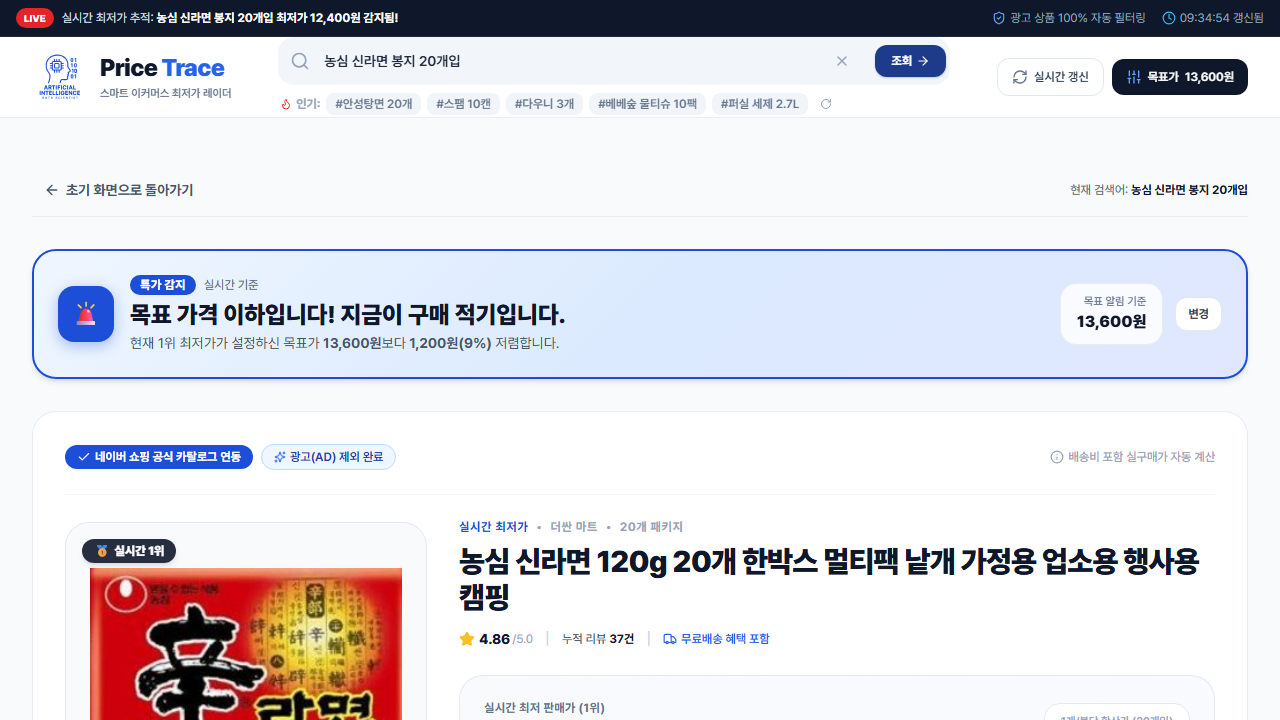
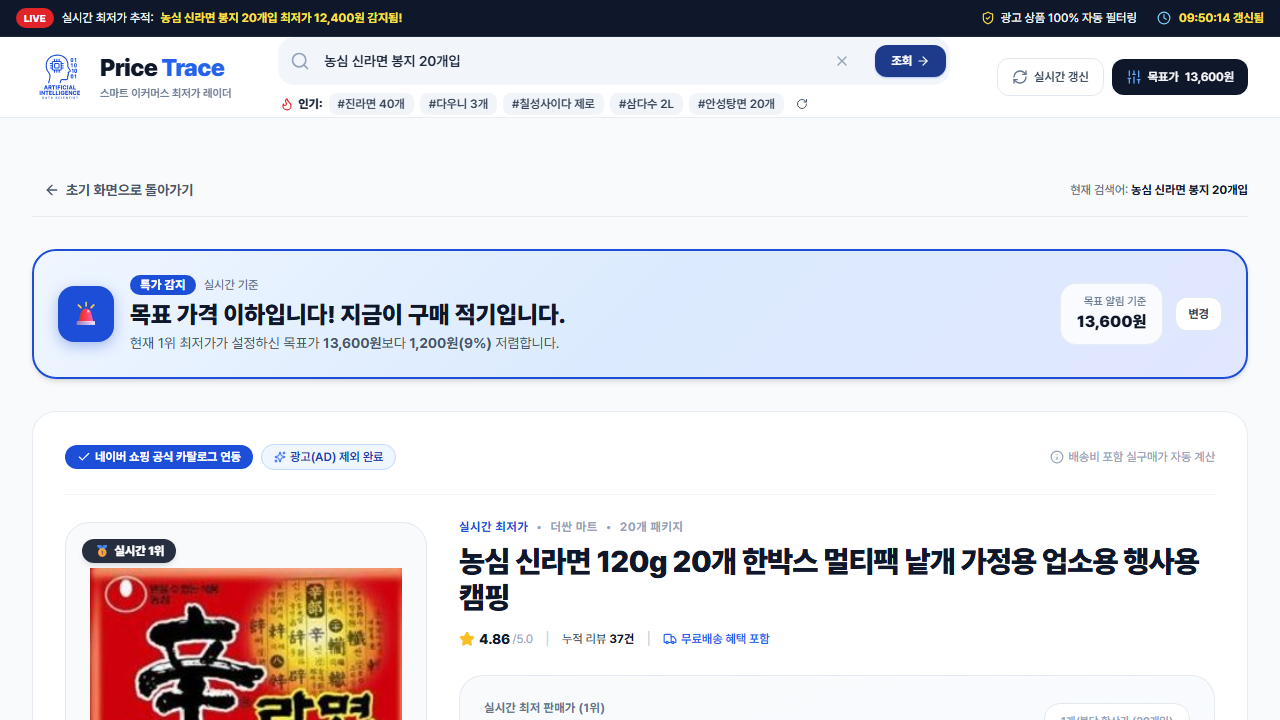
style: 배경색 대비 텍스트 가독성 최적화(어두운 배경 화이트·옐로우 / 푸터 블랙 폰트 적용)

Changed region(s): [[0.2188, 0.1222, 0.625, 0.1528], [0.0312, 0.0, 0.3125, 0.0306], [0.75, 0.0, 1.0, 0.0306]]

diff --git a/public/index.html b/public/index.html
@@ -60,20 +60,20 @@
 </head>
 <body class="bg-surface-50 text-slate-800 font-sans antialiased selection:bg-lapis selection:text-white min-h-screen flex flex-col">
 
-  <!-- 1. 최상단 실시간 특가 알림 바 (모바일 가독성 최적화) -->
+  <!-- 1. 최상단 실시간 특가 알림 바 (어두운 배경 대비 가독성 최적화: 환한 흰색 & 노랑) -->
   <div class="bg-slate-900 text-white text-[11px] sm:text-xs py-1.5 sm:py-2 px-3 sm:px-4 shadow-sm border-b border-slate-800">
     <div class="max-w-7xl mx-auto flex items-center justify-between">
       <div class="flex items-center space-x-2 truncate">
         <span class="inline-flex items-center justify-center px-2 py-0.5 rounded-full text-[10px] font-extrabold bg-coupang text-white animate-pulse shrink-0">
           LIVE
         </span>
-        <span class="font-medium text-slate-300 truncate">
-          실시간 최저가 추적: <strong class="text-white font-bold" id="topBannerText">농심 신라면 20개입 최저가 감지됨!</strong>
+        <span class="font-medium text-slate-100 truncate">
+          실시간 최저가 추적: <strong class="text-yellow-300 font-bold ml-1" id="topBannerText">농심 신라면 20개입 최저가 감지됨!</strong>
         </span>
       </div>
-      <div class="hidden md:flex items-center space-x-4 text-xs text-slate-400 shrink-0">
-        <span class="flex items-center"><i data-lucide="shield-check" class="w-3.5 h-3.5 mr-1 text-blue-400"></i> 광고 상품 100% 자동 필터링</span>
-        <span class="flex items-center"><i data-lucide="clock" class="w-3.5 h-3.5 mr-1 text-sky-400"></i> <span id="lastUpdatedTime">방금 갱신됨</span></span>
+      <div class="hidden md:flex items-center space-x-5 text-xs text-white shrink-0 font-medium">
+        <span class="flex items-center text-slate-100"><i data-lucide="shield-check" class="w-3.5 h-3.5 mr-1.5 text-yellow-300"></i> 광고 상품 100% 자동 필터링</span>
+        <span class="flex items-center text-slate-100"><i data-lucide="clock" class="w-3.5 h-3.5 mr-1.5 text-sky-300"></i> <span id="lastUpdatedTime" class="text-yellow-300 font-bold ml-0.5">방금 갱신됨</span></span>
       </div>
     </div>
   </div>
@@ -151,9 +151,9 @@
         </form>
 
         <!-- 인기 검색어 / 빠른 태그 칩 (모바일 가로 스크롤 & 데스크톱 랩) -->
-        <div class="flex items-center gap-1.5 mt-1 sm:mt-1.5 text-xs text-slate-500 overflow-x-auto no-scrollbar py-0.5 px-0.5">
-          <span class="font-bold text-slate-400 flex items-center gap-1 shrink-0 text-[11px] sm:text-xs">
-            <i data-lucide="flame" class="w-3 h-3 text-coupang"></i> 인기:
+        <div class="flex items-center gap-1.5 mt-1 sm:mt-1.5 text-xs text-slate-700 overflow-x-auto no-scrollbar py-0.5 px-0.5">
+          <span class="font-black text-slate-800 flex items-center gap-1 shrink-0 text-[11px] sm:text-xs">
+            <i data-lucide="flame" class="w-3.5 h-3.5 text-coupang"></i> 인기:
           </span>
           <div id="quickChipsContainer" class="flex items-center gap-1.5 shrink-0">
             <!-- JS 동적 렌더링 -->
@@ -161,7 +161,7 @@
           <button 
             type="button" 
             id="shuffleChipsBtn" 
-            class="px-1.5 py-0.5 rounded text-slate-400 hover:text-blue-600 hover:bg-blue-50 transition-colors flex items-center gap-0.5 text-[11px] shrink-0 cursor-pointer" 
+            class="px-1.5 py-0.5 rounded text-slate-600 hover:text-blue-600 hover:bg-blue-50 transition-colors flex items-center gap-0.5 text-[11px] shrink-0 cursor-pointer font-bold" 
             title="다른 추천 키워드 보기"
           >
             <i data-lucide="rotate-cw" class="w-3 h-3"></i>
@@ -217,22 +217,22 @@
             <span class="text-transparent bg-clip-text bg-gradient-to-r from-sky-300 via-blue-400 to-indigo-300">1개당 진짜 최저가</span>를 찾아드립니다
           </h1>
 
-          <p class="text-slate-300 text-xs sm:text-sm font-normal leading-relaxed pt-1">
+          <p class="text-slate-100 text-xs sm:text-sm font-normal leading-relaxed pt-1">
             수많은 미끼 상품과 스폰서 광고 속에서, 네이버 쇼핑 공식 카탈로그와 스마트스토어의 
-            <strong>배송비 포함 실구매가</strong> 및 <strong>묶음당 개당 환산단가</strong>를 실시간으로 비교 분석합니다.
+            <strong class="text-yellow-300 font-extrabold">배송비 포함 실구매가</strong> 및 <strong class="text-yellow-300 font-extrabold">묶음당 개당 환산단가</strong>를 실시간으로 비교 분석합니다.
           </p>
 
-          <div class="pt-2 flex flex-wrap items-center gap-3 text-xs text-slate-300">
-            <span class="flex items-center gap-1 text-sky-400 font-semibold">
-              <i data-lucide="check-circle-2" class="w-4 h-4"></i> 광고(AD) 자동 필터링
+          <div class="pt-2 flex flex-wrap items-center gap-3 text-xs text-slate-200 font-medium">
+            <span class="flex items-center gap-1.5 text-yellow-300 font-bold">
+              <i data-lucide="check-circle-2" class="w-4 h-4 text-yellow-300"></i> 광고(AD) 자동 필터링
             </span>
-            <span class="text-slate-600">•</span>
-            <span class="flex items-center gap-1 text-sky-400 font-semibold">
-              <i data-lucide="check-circle-2" class="w-4 h-4"></i> 1개당 단가 자동 환산
+            <span class="text-slate-400">•</span>
+            <span class="flex items-center gap-1.5 text-yellow-300 font-bold">
+              <i data-lucide="check-circle-2" class="w-4 h-4 text-yellow-300"></i> 1개당 단가 자동 환산
             </span>
-            <span class="text-slate-600">•</span>
-            <span class="flex items-center gap-1 text-sky-400 font-semibold">
-              <i data-lucide="check-circle-2" class="w-4 h-4"></i> 30일 시세 변동 추이
+            <span class="text-slate-400">•</span>
+            <span class="flex items-center gap-1.5 text-yellow-300 font-bold">
+              <i data-lucide="check-circle-2" class="w-4 h-4 text-yellow-300"></i> 30일 시세 변동 추이
             </span>
           </div>
         </div>
@@ -278,7 +278,7 @@
               <i data-lucide="filter" class="w-5 h-5"></i>
             </div>
             <h4 class="font-bold text-sm text-slate-900">클린 필터링 (광고 제외)</h4>
-            <p class="text-xs text-slate-500 leading-relaxed">
+            <p class="text-xs text-slate-700 font-medium leading-relaxed">
               돈 내고 올리는 스폰서 광고 상품과 엉뚱한 낱개 미끼 상품을 시스템이 자동으로 배제하여 순수 실시간 최저가만 수집합니다.
             </p>
           </div>
@@ -288,7 +288,7 @@
               <i data-lucide="calculator" class="w-5 h-5"></i>
             </div>
             <h4 class="font-bold text-sm text-slate-900">개당 환산 단가 계산</h4>
-            <p class="text-xs text-slate-500 leading-relaxed">
+            <p class="text-xs text-slate-700 font-medium leading-relaxed">
               상품명 속 수량(20개, 24캔 등)을 자동 인식하여 1개당 실제 얼마인지 환산해 드려 진짜 가성비 제품을 즉시 판별합니다.
             </p>
           </div>
@@ -298,7 +298,7 @@
               <i data-lucide="trending-up" class="w-5 h-5"></i>
             </div>
             <h4 class="font-bold text-sm text-slate-900">30일 가격 추이 및 알림</h4>
-            <p class="text-xs text-slate-500 leading-relaxed">
+            <p class="text-xs text-slate-700 font-medium leading-relaxed">
               최근 한 달간의 시세 변동 흐름과 목표가를 비교 분석하여 지금 바로 사야 할 타이밍인지 직관적으로 진단해 드립니다.
             </p>
           </div>
@@ -632,38 +632,38 @@
       <div class="lg:col-span-4 bg-gradient-to-br from-slate-950 via-slate-900 to-blue-950 text-white rounded-3xl p-6 sm:p-7 shadow-md flex flex-col justify-between space-y-6 border border-blue-900/40">
         <div>
           <div class="flex items-center justify-between">
-            <span class="text-[11px] font-bold uppercase tracking-widest text-sky-300 bg-blue-950/80 px-2.5 py-1 rounded-full border border-blue-800">
+            <span class="text-[11px] font-extrabold uppercase tracking-widest text-yellow-300 bg-blue-950 px-2.5 py-1 rounded-full border border-blue-700">
               AI 구매 타이밍 진단
             </span>
-            <i data-lucide="zap" class="w-5 h-5 text-amber-400"></i>
+            <i data-lucide="zap" class="w-5 h-5 text-yellow-400"></i>
           </div>
 
-          <h4 class="text-xl font-black mt-4">지금 사야 할까요?</h4>
+          <h4 class="text-xl font-black mt-4 text-white">지금 사야 할까요?</h4>
           
-          <div class="mt-4 p-4 rounded-2xl bg-white/10 backdrop-blur border border-white/10">
-            <div class="text-xs text-slate-300 font-medium">현재 상태 판단</div>
-            <div class="text-lg font-black text-sky-300 mt-1 flex items-center">
-              <i data-lucide="check-circle" class="w-5 h-5 mr-1.5"></i>
+          <div class="mt-4 p-4 rounded-2xl bg-white/10 backdrop-blur border border-white/15">
+            <div class="text-xs text-slate-200 font-bold">현재 상태 판단</div>
+            <div class="text-lg font-black text-yellow-300 mt-1 flex items-center">
+              <i data-lucide="check-circle" class="w-5 h-5 mr-1.5 text-yellow-300"></i>
               <span>강력 구매 추천</span>
             </div>
-            <p class="text-xs text-slate-300 mt-2 leading-relaxed">
-              현재 가격(<strong>13,200원</strong>)은 최근 30일 중 <strong>역대 최저가 구간</strong>에 해당하며, 목표가 대비 12% 저렴합니다.
+            <p class="text-xs text-slate-100 mt-2 leading-relaxed">
+              현재 가격(<strong class="text-yellow-300 font-extrabold">13,200원</strong>)은 최근 30일 중 <strong class="text-yellow-300 font-extrabold">역대 최저가 구간</strong>에 해당하며, 목표가 대비 12% 저렴합니다.
             </p>
           </div>
         </div>
 
         <div class="space-y-3">
-          <div class="flex items-center justify-between text-xs text-slate-300 border-b border-slate-700/60 pb-2">
+          <div class="flex items-center justify-between text-xs text-slate-200 font-semibold border-b border-slate-700/60 pb-2">
             <span>30일 최고가</span>
-            <span class="font-bold text-slate-200">16,200원</span>
+            <span class="font-extrabold text-white">16,200원</span>
           </div>
-          <div class="flex items-center justify-between text-xs text-slate-300 border-b border-slate-700/60 pb-2">
+          <div class="flex items-center justify-between text-xs text-slate-200 font-semibold border-b border-slate-700/60 pb-2">
             <span>30일 평균가</span>
-            <span class="font-bold text-slate-200">14,920원</span>
+            <span class="font-extrabold text-white">14,920원</span>
           </div>
-          <div class="flex items-center justify-between text-xs text-slate-300 pb-1">
+          <div class="flex items-center justify-between text-xs text-slate-200 font-semibold pb-1">
             <span>30일 최저가 (현재)</span>
-            <span class="font-extrabold text-sky-300 text-sm">13,200원</span>
+            <span class="font-black text-yellow-300 text-sm">13,200원</span>
           </div>
 
           <button id="directBuySubBtn" class="w-full mt-3 py-3 bg-naver hover:bg-naver-dark text-white text-xs font-black rounded-xl shadow-lg shadow-naver/30 transition-all flex items-center justify-center space-x-1.5">
@@ -693,14 +693,14 @@
             </span>
             <span class="text-[10px] font-bold text-blue-700 bg-blue-50 px-2 py-0.5 rounded-full border border-blue-200/60">v1.0.0</span>
           </div>
-          <p class="text-slate-400 text-[11px] mt-0.5">데이터 출처: 네이버 쇼핑 공개 BFF API 및 k-skill proxy 엔드포인트 실시간 연동</p>
+          <p class="text-slate-800 font-semibold text-xs mt-0.5">데이터 출처: 네이버 쇼핑 공개 BFF API 및 k-skill proxy 엔드포인트 실시간 연동</p>
         </div>
       </div>
-      <div class="flex items-center space-x-4 text-slate-400 justify-center md:justify-end">
+      <div class="flex items-center space-x-4 text-slate-900 font-bold text-xs justify-center md:justify-end">
         <span>3-Layer 아키텍처</span>
-        <span>·</span>
+        <span class="text-slate-400">·</span>
         <span>결정론적 클린 필터링</span>
-        <span>·</span>
+        <span class="text-slate-400">·</span>
         <span>경량 Python 서버</span>
       </div>
     </div>
